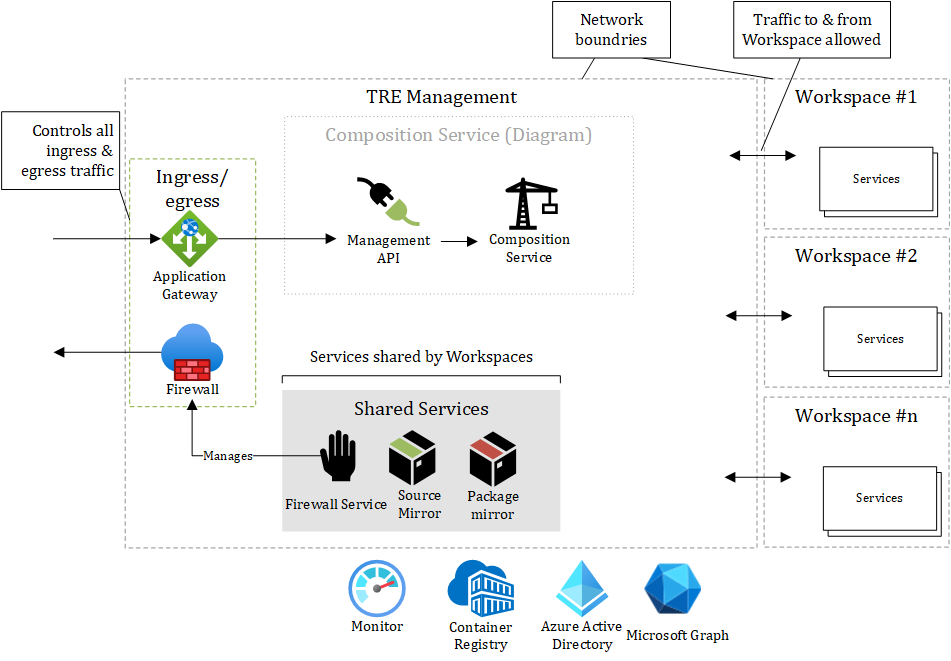
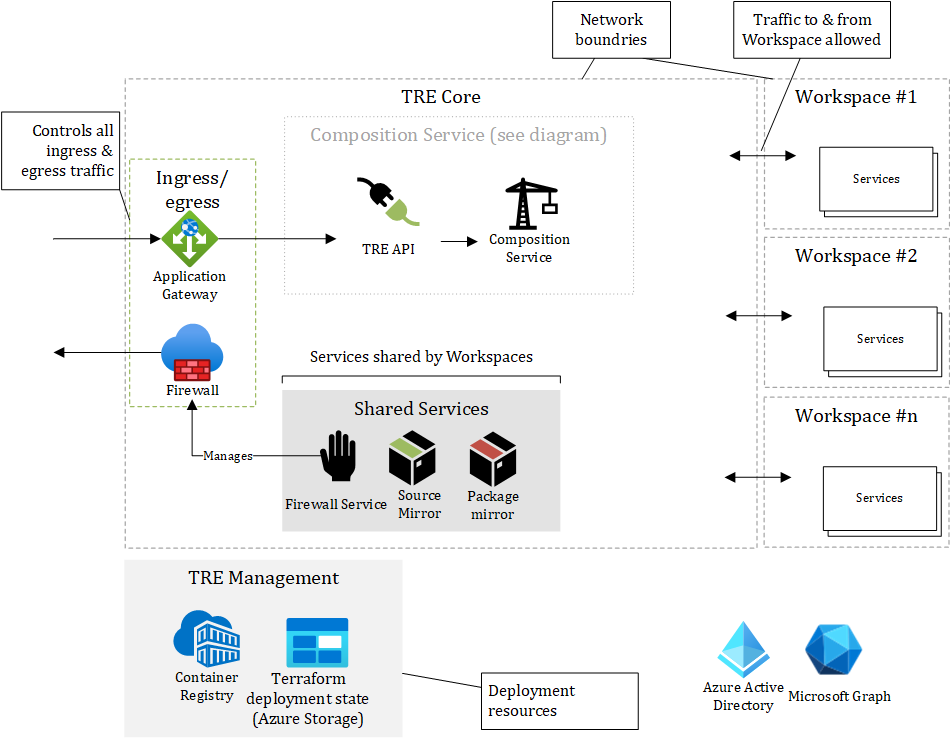
Management vs Core naming fixes. Updated overview diagram

diff --git a/docs/azure-tre-overview/architecture.md b/docs/azure-tre-overview/architecture.md
@@ -2,19 +2,21 @@
 
 The Azure Trusted Research Environment (TRE) consists of multiple components, all encapsulated in networks with restricted ingress- & egress traffic.
 
-There is one network for the management components and one network per Workspace.
+There is one network for the core components and one network per Workspace.
 
 All traffic has to be explicitly allowed by the Application Gateway or the Firewall.
 
 ![Architecture overview](../assets/archtecture-overview.png)
 
-The Azure TRE management plane consists of two groups of components:
+The Azure resources outside the network boundries of the Azure TRE are Azure Active Directory, Microsoft Graph and TRE Management. TRE Management are resources used during deployment.
+
+The Azure TRE core plane consists of two groups of components:
 
 - API & Composition Service
 - Shared Services
 
 !!! todo
-    Shared Services is still work in progress. Please see [#23](https://github.com/microsoft/AzureTRE/issues/23), [#22](https://github.com/microsoft/AzureTRE/issues/21), & [#21](https://github.com/microsoft/AzureTRE/issues/21)
+    The Shared Services [#23](https://github.com/microsoft/AzureTRE/issues/23) and Firewall Shared Service [#882](https://github.com/microsoft/AzureTRE/issues/882) is still work in progress.
 
 The TRE API is a service that users can interact with to request changes to workspaces e.g., to create, update, delete workspaces and workspace services inside each workspace. The Composition Service is doing the actual work of mutating the state of each Workspace including the Workspace Services.
 
@@ -89,13 +91,10 @@ The flow to provision a Workspace is as follows (the flow is the same for all ki
 1. The Porter Docker bundle is pulled from the Azure Container Registry (ACR) and executed.
 1. The Porter bundle executes against Azure Resource Manager to provision Azure resources. Any kind of infrastructure of code frameworks like ARM, Terraform, or Pulumi can be used or scripted via PowerShell or Azure CLI.
 1. Porter stores state and outputs in Azure Storage Containers. State for keeping persistent state between executions of a bundled with the same Workspace.
-1. For the time being, the Porter bundle updates Firewall rules directly setting egress rules. An enhancement to implement a Shared Firewall services is planned ([#23](https://github.com/microsoft/AzureTRE/issues/23)).
+1. For the time being, the Porter bundle updates Firewall rules directly setting egress rules. An enhancement to implement a Shared Firewall services is planned ([#882](https://github.com/microsoft/AzureTRE/issues/882)).
 1. The Resource Processor sends events to the `deploymentstatus` queue on state changes and informs if the deployment succeeded or failed.
 1. The API receives the status of the Porter bundle execution.
 1. The API updates the status of the Porter bundle execution in the Configuration Store.
 
 !!! info
     The Resource Processor is a Docker container running on a Linux VM scale set.
-
-!!! todo
-    Currently, the bundle keeps state between executions in a Storage Container (TF state) passed in a parameters to the bundle. An enhancement issues [#536](https://github.com/microsoft/AzureTRE/issues/536) exists to configure Porter state management.
